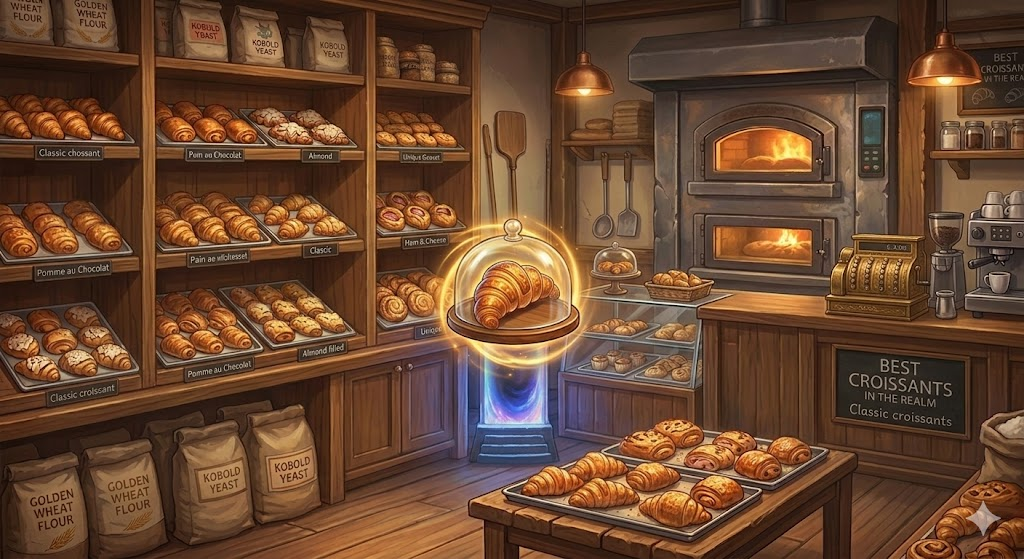
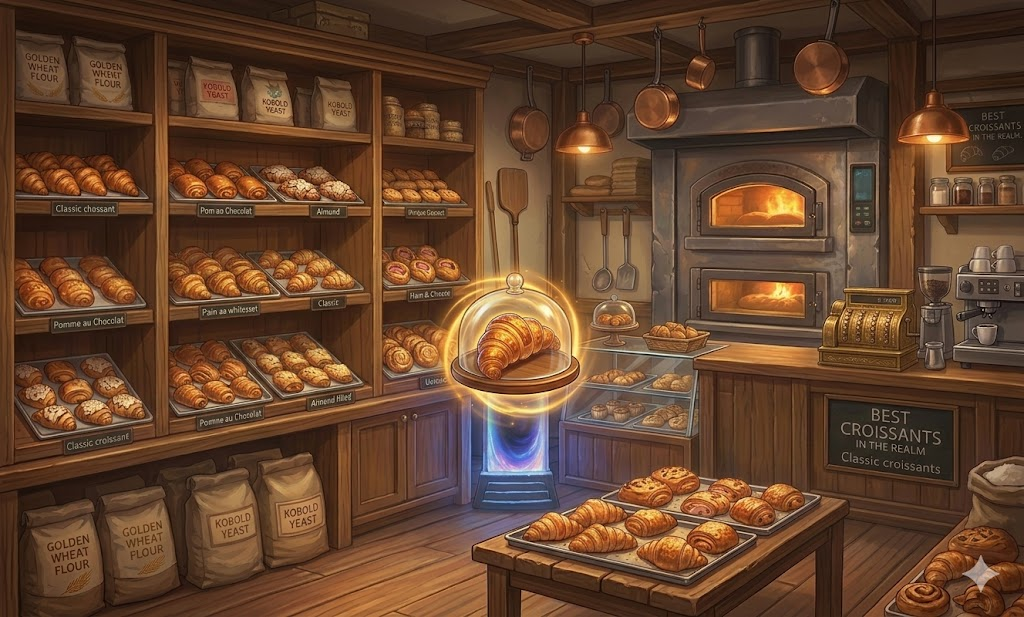
Fix bg

diff --git a/src/main/java/component/CharacterSelectScene.java b/src/main/java/component/CharacterSelectScene.java
@@ -19,7 +19,7 @@ import java.net.URL;
 import static logic.gameLogic.Selection.setPlayer_1_Character;
 import static logic.gameLogic.Selection.setPlayer_2_Character;
 
-public class CharacterSelectScene extends VBox {
+public class CharacterSelectScene extends StackPane {
     private CharacterPane selectedPane;
     private final PlayerSelection playerSelection;
     private final ImageView player1PreviewImage;
@@ -27,6 +27,8 @@ public class CharacterSelectScene extends VBox {
     private SelectState selectState = SelectState.PLAYER1_SELECT;
 
     public CharacterSelectScene(){
+        VBox ui = new VBox();
+
         playerSelection = new PlayerSelection();
         player1PreviewImage = createPreviewImageView();
         player2PreviewImage = createPreviewImageView();
@@ -73,32 +75,42 @@ public class CharacterSelectScene extends VBox {
         VBox.setVgrow(previewRow, Priority.ALWAYS);
         previewRow.getChildren().addAll(player1PreviewPane, player2PreviewPane);
 
-        setSpacing(14);
-        setAlignment(Pos.TOP_CENTER);
-        setPadding(new Insets(12, 16, 12, 16));
-        setFillWidth(true);
-        setMaxSize(Double.MAX_VALUE, Double.MAX_VALUE);
+
+        ui.setSpacing(14);
+        ui.setAlignment(Pos.TOP_CENTER);
+        ui.setPadding(new Insets(12, 16, 12, 16));
+        ui.setFillWidth(true);
+        ui.setMaxSize(Double.MAX_VALUE, Double.MAX_VALUE);
         playerSelection.setMaxWidth(Double.MAX_VALUE);
 
-        getChildren().addAll(
+        ui.getChildren().addAll(
                 playerSelection,
                 characterRow,
                 actionRow,
                 previewRow
         );
 
+        getChildren().add(ui);
+
         setImageBackground();
     }
 
     private void setImageBackground(){
         Image image = new Image(getClass().getResource("/CroissantShop.png").toExternalForm());
+        BackgroundSize size = new BackgroundSize(
+                100, 100,
+                true, true,
+                false, true   // COVER = true
+        );
+
         BackgroundImage bg = new BackgroundImage(
                 image,
                 BackgroundRepeat.NO_REPEAT,
                 BackgroundRepeat.NO_REPEAT,
                 BackgroundPosition.CENTER,
-                new BackgroundSize(100, 100, true, true, false, true)
+                size
         );
+
         this.setBackground(new Background(bg));
     }
 
@@ -163,9 +175,8 @@ public class CharacterSelectScene extends VBox {
 
     private ImageView createPreviewImageView() {
         ImageView imageView = new ImageView();
-        imageView.setFitWidth(320);
-        imageView.setFitHeight(320);
-        imageView.setPreserveRatio(true);
+        imageView.setFitWidth(230);
+        imageView.setFitHeight(230);
         return imageView;
     }
 

diff --git a/src/main/java/application/Main.java b/src/main/java/application/Main.java
@@ -9,17 +9,11 @@ public class Main extends Application {
 
     @Override
     public void start(Stage primaryStage) throws Exception {
-        VBox root = new VBox();
-        root.setPrefHeight(600);
-        root.setPrefWidth(1000);
+        CharacterSelectScene characterSelectScene =
+                new CharacterSelectScene();
 
-        CharacterSelectScene characterSelectPane = new CharacterSelectScene();
+        SceneHandler.init(primaryStage, characterSelectScene);
 
-        root.getChildren().addAll(
-                characterSelectPane
-        );
-
-        SceneHandler.init(primaryStage, root);
         primaryStage.setTitle("CroissantFighter");
         primaryStage.show();
     }

diff --git a/src/main/java/application/SceneHandler.java b/src/main/java/application/SceneHandler.java
@@ -18,6 +18,9 @@ public class SceneHandler {
     // swap screen
     public static void switchRoot(Parent newRoot) {
         scene.setRoot(newRoot);
+
+        newRoot.applyCss();
+        newRoot.layout();
     }
 
     public static Scene getScene() {
